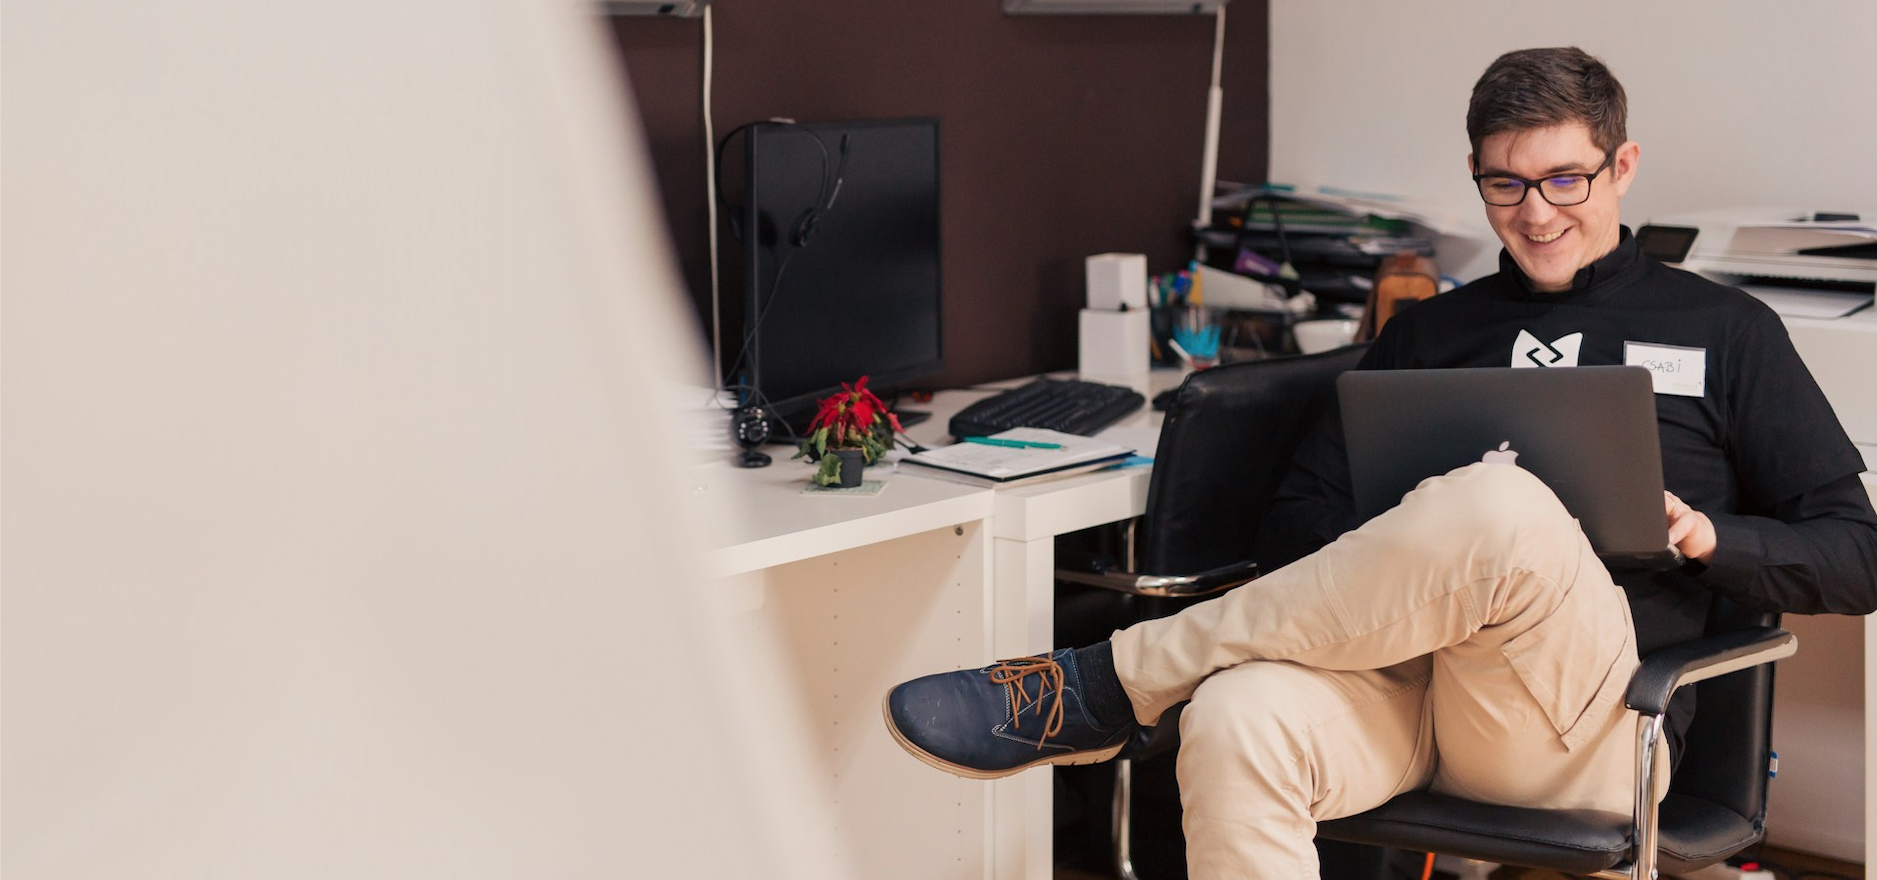
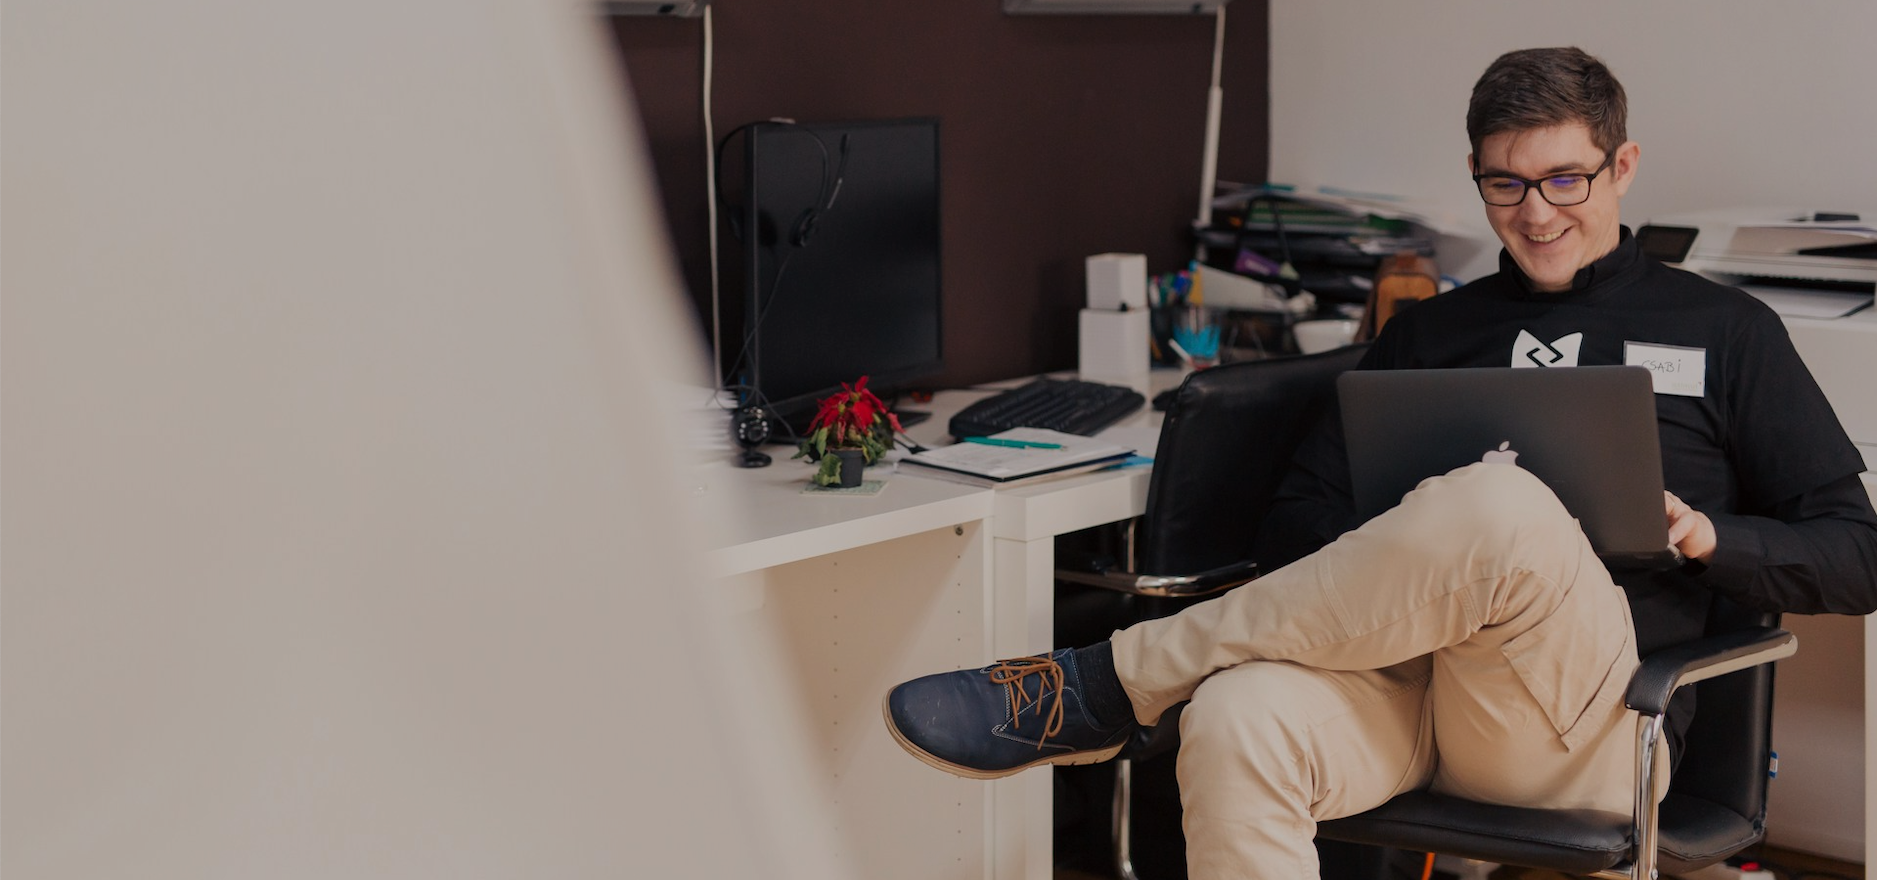
pictures adjusted

diff --git a/index.html b/index.html
@@ -11,9 +11,10 @@
     <link rel="icon" href="favicon.ico">
 <!-- Plugins -->
     <link rel="stylesheet" href="https://cdnjs.cloudflare.com/ajax/libs/bootstrap/5.3.2/css/bootstrap.min.css">
-    <link rel="stylesheet" href="https://cdnjs.cloudflare.com/ajax/libs/font-awesome/6.5.1/css/all.min.css">
     <link rel="stylesheet" href="/src/css/style.css">
+    <link rel="stylesheet" href="https://cdnjs.cloudflare.com/ajax/libs/font-awesome/6.5.1/css/all.min.css">
     <link rel="stylesheet" href="https://cdnjs.cloudflare.com/ajax/libs/bootstrap/5.3.2/js/bootstrap.min.js">
+  
 
   </head>
 
@@ -21,8 +22,7 @@
 <!--Navigation-->
     <nav class="navbar navbar-light bg-white navbar-expand-md fixed-top">
       <div class="container-fluid">
-        <a class="navbar-brand" href="index.html">
-          <img src="./src/icons/cl_logo.png" height="40" alt="logo"></a>
+        <a class="navbar-brand" href="index.html"><img src="./src/icons/cl_logo.png" height="40" alt="logo"></a>
         <button class="navbar-toggler" type="button" data-bs-toggle="collapse"
           data-bs-target="#navbarNav3" aria-controls="navbarNav3"
           aria-expanded="false" aria-label="Toggle navigation">
@@ -30,7 +30,7 @@
         </button>
         <div class="collapse navbar-collapse" id="navbarNav3">
           <ul class="navbar-nav ms-auto">
-            <li class="nav-item"> <a class="nav-link" href="index.html">Home</span></a> </li>
+            <li class="active"> <a class="nav-link" href="index.html">Home</span></a> </li>
             <li class="nav-item"> <a class="nav-link" href="#about">About Me</a> </li>
             <li class="nav-item"> <a class="nav-link" href="#portfolio">Portfolio</a> </li>
             <li class="nav-item"> <a class="nav-link" href="#socials">Socials</a> </li>            
@@ -41,8 +41,8 @@
     </nav>
 
 <!--Cover-->
-    <section class="pt-4 pb-3 mt-0 d-flex bg-dark cover" style="background-image: url(./src/images/site/cover.png); min-height: 100vh; background-size: cover;">
-      <div class="container-fluid p-md-4">
+<section class="pt-4 pb-3 mt-0 d-flex header" style="background-image: url(./src/images/site/cover.png); min-height: 100vh; background-size: cover; background-position: center;">
+    <div class="container-fluid p-md-4">
         <div class="row    d-flex  h-100 ">
           <div class="position-relative  w-100 h-25  d-flex">
             <div class="container-fluid align-self-start   mt-2 mb-2">
@@ -67,13 +67,14 @@
             <div class="container-fluid align-self-center  mt-5 mb-2">
               <div class="row">
                 <div class="col-md-6">
-                  <div class=" pt-0 d-md-inline-block d-flex-row text-center text-md-left justyfy-content-md-start justyfy-content-center">
+                  <div class=" pt-0 d-md-inline-block d-flex-row text-center text-md-left justify-content-md-start justify-content-center">
                     <a href="#" role="button" class=" btn btn-link mr-2"><i class="fa-brands fa-twitter fa-xl text-light"></i><a>
                     <a href="#" role="button" class=" btn btn-link mr-2"><i class="fa-brands fa-github fa-xl text-light"></i></a>
                     <a href="#" role="button" class=" btn btn-link mr-2"><i class="fa-brands fa-linkedin fa-xl text-light"></i></a>
                   </div>
                 </div>
-                <div class="col-md-6 pt-sm-4 text-md-right text-center d-flex justify-content-end"><a href="#portfolio" class="btn btn-outline-light mt-md-0 mt-3">See my portfolio</a>
+                <div
+                  class="col-md-6 pt-sm-4 text-md-right text-center d-flex justify-content-end"><a href="#portfolio" class="btn btn-outline-light mt-md-0 mt-3">My portfolio</a>
                 </div>
               </div>
             </div>
@@ -165,7 +166,7 @@
           <div class="col-md-4 mb-3">
             <div class="card shadow-sm">
               <img class="img-fluid" alt="100%x280"
-                src="https://images.unsplash.com/photo-1507525428034-b723cf961d3e?ixlib=rb-0.3.5&amp;q=80&amp;fm=jpg&amp;crop=entropy&amp;cs=tinysrgb&amp;w=1080&amp;fit=max&amp;ixid=eyJhcHBfaWQiOjMyMDc0fQ&amp;s=ee8417f0ea2a50d53a12665820b54e23">
+                src="./src/images/site/healthybites.png">
               <div class="card-body">
                 <h4 class="card-title">Healthy Bites</h4>
                 <!--<h3 class=" small card-title">Bootcamp Group Project</h3>-->
@@ -176,7 +177,7 @@
           <div class="col-md-4 mb-3">
             <div class="card shadow-sm">
               <img class="img-fluid" alt="100%x280"
-                src="./src/images/site/Horiseon.png">
+                src="./src/images/site/progquiz.png">
               <div class="card-body">
                 <h4 class="card-title">ProgQuiz</h4>
                 <p class="card-text">ProgQuiz is a time limited quiz game on Programming paradigms.</p>
@@ -219,7 +220,7 @@
                   <h3>Behance</h3>
                 </div>
                 <div>
-                  <button type="button" class="btn btn-outline-secondary btn-sm btn-text-only">Get there</button>
+                  <button type="button" class="btn btn-outline-secondary btn-sm">Get there</button>
                 </div>
               </div>
             </div>
@@ -230,7 +231,7 @@
                   <h3>Twitter</h3>
                 </div>
                 <div>
-                  <button type="button" class="btn btn-outline-secondary btn-sm btn-text-only">Follow me</button>
+                  <button type="button" class="btn btn-outline-secondary btn-sm">Follow me</button>
                 </div>
               </div>
             </div>
@@ -241,7 +242,7 @@
                   <h3>Facebook</h3>
                 </div>
                 <div>
-                  <button type="button" class="btn btn-outline-secondary btn-sm btn-text-only">Let's connect</button>
+                  <button type="button" class="btn btn-outline-secondary btn-sm">Let's connect</button>
                 </div>
               </div>
             </div>
@@ -252,7 +253,7 @@
                   <h3>Pinterest</h3>
                 </div>
                 <div>
-                  <button type="button" class="btn btn-outline-secondary btn-sm btn-text-only">Get there</button>
+                  <button type="button" class="btn btn-outline-secondary btn-sm">Get there</button>
                 </div>
               </div>
             </div>
@@ -263,7 +264,7 @@
                   <h3>LinkedIn</h3>
                 </div>
                 <div>
-                  <button type="button" class="btn btn-outline-secondary btn-sm btn-text-only">Let's connect</button>
+                  <button type="button" class="btn btn-outline-secondary btn-sm">Let's connect</button>
                 </div>
               </div>
             </div>
@@ -274,7 +275,7 @@
                   <h3>Github</h3>
                 </div>
                 <div>
-                  <button type="button" class="btn btn-outline-secondary btn-sm btn-text-only">Collaborate</button>
+                  <button type="button" class="btn btn-outline-secondary btn-sm">Collaborate</button>
                 </div>
               </div>
             </div>

diff --git a/src/css/style.css b/src/css/style.css
@@ -1,26 +1,7 @@
 
 
 
-
-.navbar {
-    position: fixed;
-}
-
-.cover {
-opacity: 0.7;
-
-
-}
-
-
-
-.btn-text-only {
-    padding:  0;
-    display: inline-block;
-    margin:  0;
-  }
-
-/* Form button */
+/* Contact form button */
 
   .textarea-container {
     position: relative;
@@ -28,7 +9,10 @@ opacity: 0.7;
   
   .textarea-container .submit-button {
     position: absolute;
-    bottom: 15px; /* Adjust as needed */
-    right: 25px; /* Adjust as needed */
+    bottom: 15px; 
+    right: 25px; 
   }
   
+  .img-fluid {
+    padding-top: 3px;
+  }
